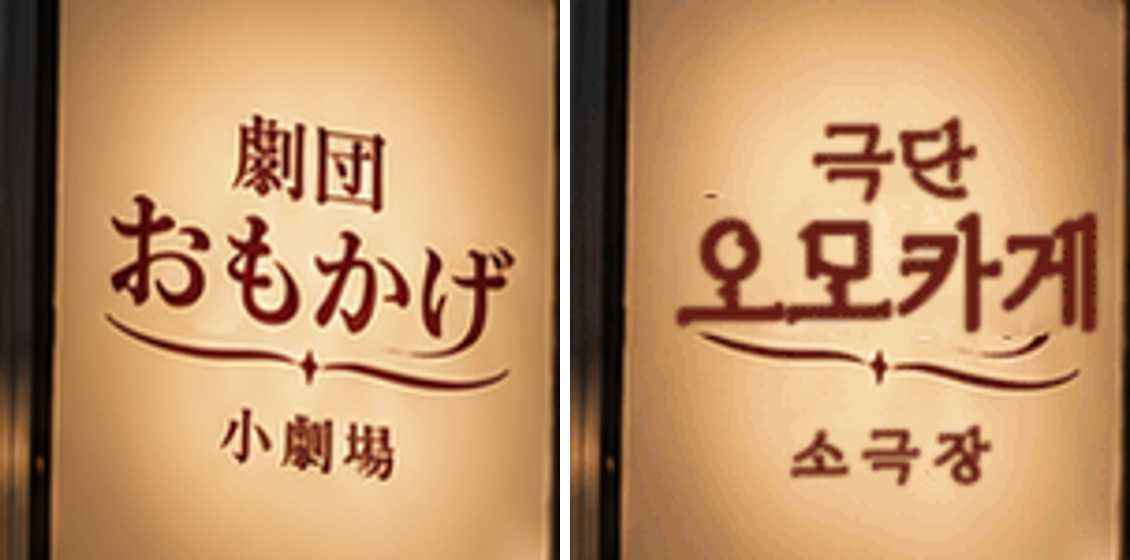
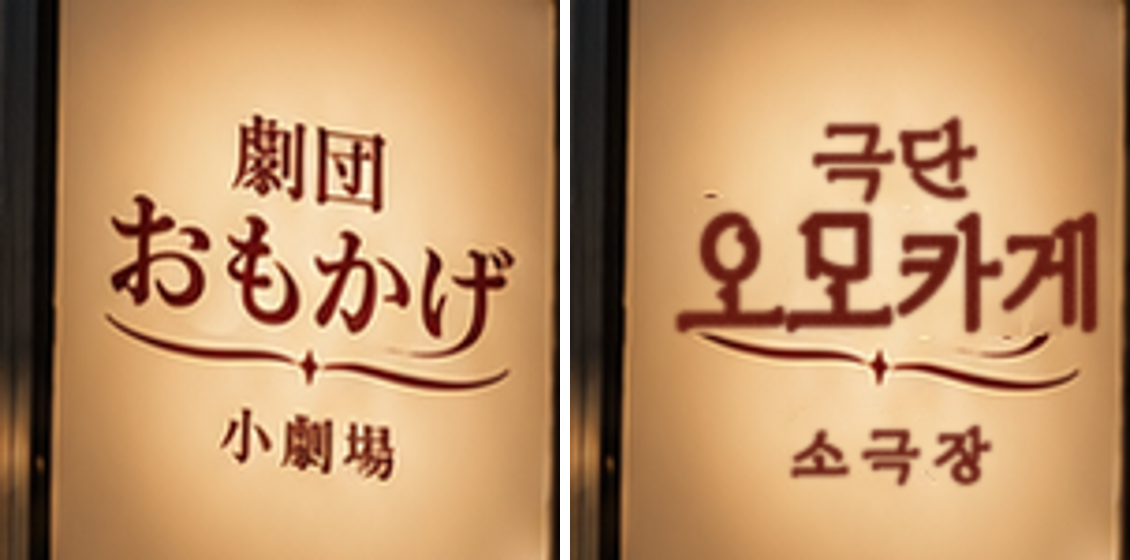
걸린 간판 오모카게: 네 글자 높이를 똑같이 맞춰 대각선 느낌 없앰

Changed region(s): [[0.5885, 0.4857, 0.8053, 0.6071], [0.6195, 0.3643, 0.7743, 0.4554]]

diff --git a/tools/img_ko2_scripts/photo/mk_svg_balanced.py b/tools/img_ko2_scripts/photo/mk_svg_balanced.py
@@ -1,5 +1,5 @@
 """글자마다 세로 가운데를 맞춘 윤곽선 SVG — Diphylleia 의 오·모(낮음)와 카·게(위아래로 긺)가 한 줄에서 들쭉날쭉해 보이는 것을 고른다.
-사용: python mk_svg_balanced.py 글자 출력.svg [긴글자_세로비율]"""
+사용: python mk_svg_balanced.py 글자 출력.svg [긴글자_세로비율 | 공통높이(폰트 단위)]"""
 import sys
 from fontTools.ttLib import TTFont
 from fontTools.pens.boundsPen import BoundsPen
@@ -13,7 +13,7 @@ CY = 330  # 공통 세로 가운데(폰트 단위)
 x = 0; paths = []
 for ch in text:
     g = gs[cm[ord(ch)]]; b = BoundsPen(gs); g.draw(b); x0, y0, x1, y1 = b.bounds
-    h = y1 - y0; k = tall if h > 800 else 1.0
+    h = y1 - y0; k = (tall / h) if tall > 10 else (tall if h > 800 else 1.0)  # tall>10 이면 모든 글자를 그 높이로
     cy = (y0 + y1) / 2
     sp = SVGPathPen(gs)
     # 폰트 y 위로 → SVG y 아래로: y' = H - (CY + k*(y-cy))
